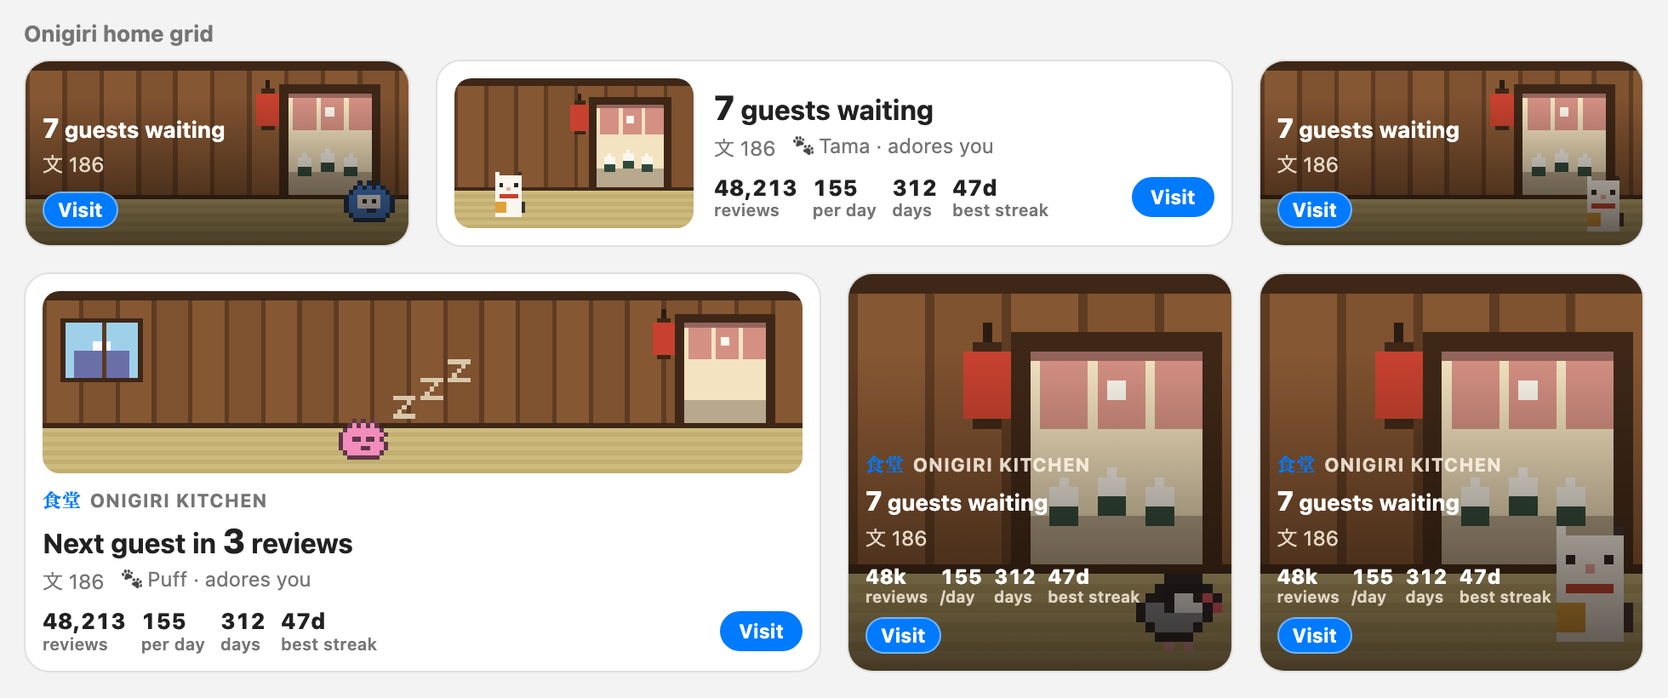
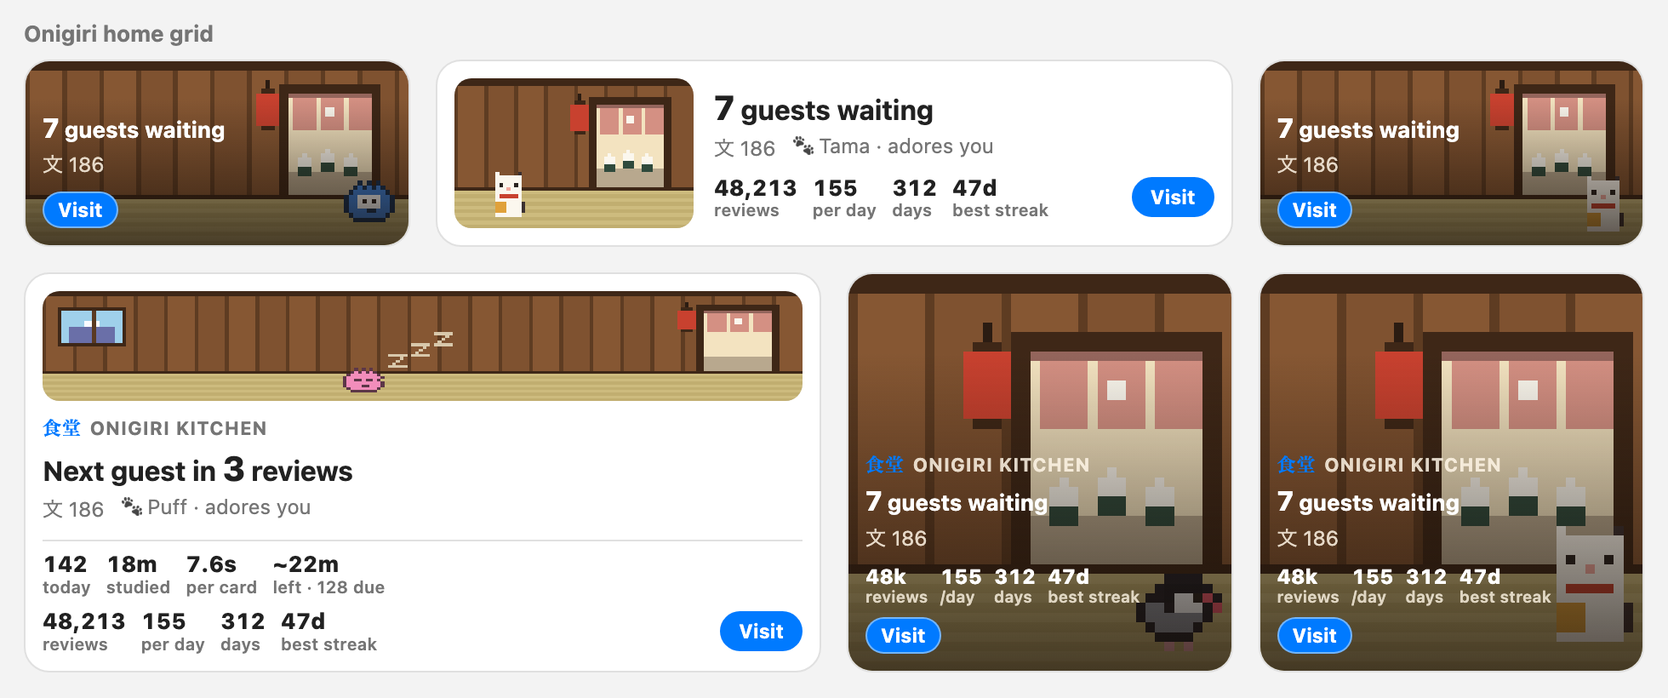
Today and time left: in stats and on big widgets; the panel Xs are back
- study_today(): today's cards, time, pace, retention and new cards, plus
  the cards still due and how long they'll take at your own pace (seconds
  per answer by card type and answers per new card, from the last 30 days).
- Stats: a 今日 Today section (cards, time, pace, time left, finish-around
  time, retention, focus, guests; due cards by type; your pace).
- Widget: big widgets get a today row (cards, time studied, per card, time
  left); every widget's hover shows it.
- The Shop, Pet and Settings panels keep their X after all.

Changed region(s): [[0.0, 0.4268, 0.498, 0.8537]]

diff --git a/dev/widget.html b/dev/widget.html
@@ -25,13 +25,13 @@ h3 { font-size:13px; color:var(--fg-subtle); margin:18px 0 8px; }
 <body><script>if(location.search.includes('night'))document.body.className='nightMode'</script>
 <h3>Onigiri home grid</h3>
 <div class="unified-grid">
-  <div class="external-widget-container" style="grid-area:1/2/span 1/span 2"><div class="okw" role="button" tabindex="0"><script type="application/json" class="okw-data">{"guests": 7, "nextIn": 3, "reviews": 142, "focusDone": 2, "stats": {"total": 48213, "days": 312, "average": 155, "bestStreak": 47}, "mon": 186, "pet": {"species": "cat", "name": "Tama", "tummy": 70, "love": 85, "energy": 70, "stage": 1}, "theme": "#D49083", "timer": {"pomo": {"phase": "idle", "rounds": 1, "cycle": 4}, "sound": false}}</script><div class="okw-in"><canvas class="okw-scene" width="64" height="40"></canvas><div class="okw-info"></div></div></div></div>
-  <div class="external-widget-container" style="grid-area:1/1/span 1/span 1"><div class="okw" role="button" tabindex="0"><script type="application/json" class="okw-data">{"guests": 7, "nextIn": 3, "reviews": 142, "focusDone": 2, "stats": {"total": 48213, "days": 312, "average": 155, "bestStreak": 47}, "mon": 186, "pet": {"species": "puffle", "name": "Pip", "tummy": 70, "love": 85, "energy": 70, "stage": 1}, "puffleColor": "#3d7fd6", "theme": "#D49083", "timer": {"pomo": {"phase": "idle", "rounds": 1, "cycle": 4}, "sound": false}}</script><div class="okw-in"><canvas class="okw-scene" width="64" height="40"></canvas><div class="okw-info"></div></div></div></div>
-  <div class="external-widget-container" style="grid-area:1/4/span 1/span 1"><div class="okw" role="button" tabindex="0"><script type="application/json" class="okw-data">{"guests": 7, "nextIn": 3, "reviews": 142, "focusDone": 2, "stats": {"total": 48213, "days": 312, "average": 155, "bestStreak": 47}, "mon": 186, "pet": {"species": "cat", "name": "Tama", "tummy": 70, "love": 85, "energy": 70, "stage": 1}, "theme": "#D49083", "timer": {"pomo": {"phase": "idle", "rounds": 1, "cycle": 4}, "sound": false}}</script><div class="okw-in"><canvas class="okw-scene" width="64" height="40"></canvas><div class="okw-info"></div></div></div></div>
-  <div class="external-widget-container" style="grid-area:2/1/span 2/span 2" id="w22"><div class="okw" role="button" tabindex="0"><script type="application/json" class="okw-data">{"guests": 0, "nextIn": 3, "reviews": 142, "focusDone": 2, "stats": {"total": 48213, "days": 312, "average": 155, "bestStreak": 47}, "mon": 186, "pet": {"species": "puffle", "name": "Puff", "tummy": 70, "love": 85, "energy": 70, "stage": 1}, "puffleColor": "#f28dbb", "theme": "#D49083", "timer": {"pomo": {"phase": "focus", "endsAt": 0, "remaining": 1101000, "paused": true, "rounds": 1, "cycle": 4}}}</script><div class="okw-in"><canvas class="okw-scene" width="64" height="40"></canvas><div class="okw-info"></div></div></div></div>
-  <div class="external-widget-container" style="grid-area:2/3/span 2/span 1"><div class="okw" role="button" tabindex="0"><script type="application/json" class="okw-data">{"guests": 7, "nextIn": 3, "reviews": 142, "focusDone": 2, "stats": {"total": 48213, "days": 312, "average": 155, "bestStreak": 47}, "mon": 186, "pet": {"species": "bird", "name": "Tama", "tummy": 70, "love": 85, "energy": 70, "stage": 1}, "theme": "#D49083", "timer": {"pomo": {"phase": "idle", "rounds": 1, "cycle": 4}, "sound": false}}</script><div class="okw-in"><canvas class="okw-scene" width="64" height="40"></canvas><div class="okw-info"></div></div></div></div>
-  <div class="external-widget-container" style="grid-area:2/4/span 2/span 1"><div class="okw" role="button" tabindex="0"><script type="application/json" class="okw-data">{"guests": 7, "nextIn": 3, "reviews": 142, "focusDone": 2, "stats": {"total": 48213, "days": 312, "average": 155, "bestStreak": 47}, "mon": 186, "pet": {"species": "cat", "name": "Tama", "tummy": 70, "love": 85, "energy": 70, "stage": 1}, "theme": "#D49083", "timer": {"pomo": {"phase": "idle", "rounds": 1, "cycle": 4}, "sound": false}}</script><div class="okw-in"><canvas class="okw-scene" width="64" height="40"></canvas><div class="okw-info"></div></div></div></div>
+  <div class="external-widget-container" style="grid-area:1/2/span 1/span 2"><div class="okw" role="button" tabindex="0"><script type="application/json" class="okw-data">{"guests": 7, "nextIn": 3, "reviews": 142, "focusDone": 2, "stats": {"total": 48213, "days": 312, "average": 155, "bestStreak": 47}, "studyToday": {"cards": 142, "seconds": 1080, "pace": 7.6, "retention": 89.4, "newCards": 20, "due": {"new": 20, "learn": 12, "review": 96, "total": 128}, "estimateSeconds": 1330, "paces": {"learning": 7.1, "review": 7.1, "relearning": 8.7, "answersPerNew": 2.9}}, "mon": 186, "pet": {"species": "cat", "name": "Tama", "tummy": 70, "love": 85, "energy": 70, "stage": 1}, "theme": "#D49083", "timer": {"pomo": {"phase": "idle", "rounds": 1, "cycle": 4}, "sound": false}}</script><div class="okw-in"><canvas class="okw-scene" width="64" height="40"></canvas><div class="okw-info"></div></div></div></div>
+  <div class="external-widget-container" style="grid-area:1/1/span 1/span 1"><div class="okw" role="button" tabindex="0"><script type="application/json" class="okw-data">{"guests": 7, "nextIn": 3, "reviews": 142, "focusDone": 2, "stats": {"total": 48213, "days": 312, "average": 155, "bestStreak": 47}, "studyToday": {"cards": 142, "seconds": 1080, "pace": 7.6, "retention": 89.4, "newCards": 20, "due": {"new": 20, "learn": 12, "review": 96, "total": 128}, "estimateSeconds": 1330, "paces": {"learning": 7.1, "review": 7.1, "relearning": 8.7, "answersPerNew": 2.9}}, "mon": 186, "pet": {"species": "puffle", "name": "Pip", "tummy": 70, "love": 85, "energy": 70, "stage": 1}, "puffleColor": "#3d7fd6", "theme": "#D49083", "timer": {"pomo": {"phase": "idle", "rounds": 1, "cycle": 4}, "sound": false}}</script><div class="okw-in"><canvas class="okw-scene" width="64" height="40"></canvas><div class="okw-info"></div></div></div></div>
+  <div class="external-widget-container" style="grid-area:1/4/span 1/span 1"><div class="okw" role="button" tabindex="0"><script type="application/json" class="okw-data">{"guests": 7, "nextIn": 3, "reviews": 142, "focusDone": 2, "stats": {"total": 48213, "days": 312, "average": 155, "bestStreak": 47}, "studyToday": {"cards": 142, "seconds": 1080, "pace": 7.6, "retention": 89.4, "newCards": 20, "due": {"new": 20, "learn": 12, "review": 96, "total": 128}, "estimateSeconds": 1330, "paces": {"learning": 7.1, "review": 7.1, "relearning": 8.7, "answersPerNew": 2.9}}, "mon": 186, "pet": {"species": "cat", "name": "Tama", "tummy": 70, "love": 85, "energy": 70, "stage": 1}, "theme": "#D49083", "timer": {"pomo": {"phase": "idle", "rounds": 1, "cycle": 4}, "sound": false}}</script><div class="okw-in"><canvas class="okw-scene" width="64" height="40"></canvas><div class="okw-info"></div></div></div></div>
+  <div class="external-widget-container" style="grid-area:2/1/span 2/span 2" id="w22"><div class="okw" role="button" tabindex="0"><script type="application/json" class="okw-data">{"guests": 0, "nextIn": 3, "reviews": 142, "focusDone": 2, "stats": {"total": 48213, "days": 312, "average": 155, "bestStreak": 47}, "studyToday": {"cards": 142, "seconds": 1080, "pace": 7.6, "retention": 89.4, "newCards": 20, "due": {"new": 20, "learn": 12, "review": 96, "total": 128}, "estimateSeconds": 1330, "paces": {"learning": 7.1, "review": 7.1, "relearning": 8.7, "answersPerNew": 2.9}}, "mon": 186, "pet": {"species": "puffle", "name": "Puff", "tummy": 70, "love": 85, "energy": 70, "stage": 1}, "puffleColor": "#f28dbb", "theme": "#D49083", "timer": {"pomo": {"phase": "focus", "endsAt": 0, "remaining": 1101000, "paused": true, "rounds": 1, "cycle": 4}}}</script><div class="okw-in"><canvas class="okw-scene" width="64" height="40"></canvas><div class="okw-info"></div></div></div></div>
+  <div class="external-widget-container" style="grid-area:2/3/span 2/span 1"><div class="okw" role="button" tabindex="0"><script type="application/json" class="okw-data">{"guests": 7, "nextIn": 3, "reviews": 142, "focusDone": 2, "stats": {"total": 48213, "days": 312, "average": 155, "bestStreak": 47}, "studyToday": {"cards": 142, "seconds": 1080, "pace": 7.6, "retention": 89.4, "newCards": 20, "due": {"new": 20, "learn": 12, "review": 96, "total": 128}, "estimateSeconds": 1330, "paces": {"learning": 7.1, "review": 7.1, "relearning": 8.7, "answersPerNew": 2.9}}, "mon": 186, "pet": {"species": "bird", "name": "Tama", "tummy": 70, "love": 85, "energy": 70, "stage": 1}, "theme": "#D49083", "timer": {"pomo": {"phase": "idle", "rounds": 1, "cycle": 4}, "sound": false}}</script><div class="okw-in"><canvas class="okw-scene" width="64" height="40"></canvas><div class="okw-info"></div></div></div></div>
+  <div class="external-widget-container" style="grid-area:2/4/span 2/span 1"><div class="okw" role="button" tabindex="0"><script type="application/json" class="okw-data">{"guests": 7, "nextIn": 3, "reviews": 142, "focusDone": 2, "stats": {"total": 48213, "days": 312, "average": 155, "bestStreak": 47}, "studyToday": {"cards": 142, "seconds": 1080, "pace": 7.6, "retention": 89.4, "newCards": 20, "due": {"new": 20, "learn": 12, "review": 96, "total": 128}, "estimateSeconds": 1330, "paces": {"learning": 7.1, "review": 7.1, "relearning": 8.7, "answersPerNew": 2.9}}, "mon": 186, "pet": {"species": "cat", "name": "Tama", "tummy": 70, "love": 85, "energy": 70, "stage": 1}, "theme": "#D49083", "timer": {"pomo": {"phase": "idle", "rounds": 1, "cycle": 4}, "sound": false}}</script><div class="okw-in"><canvas class="okw-scene" width="64" height="40"></canvas><div class="okw-info"></div></div></div></div>
 </div>
 <h3>Plain Anki (no Onigiri), under the deck list</h3>
-<div class="plainwrap">[deck list]<div class="okw okw-plain" role="button" tabindex="0"><script type="application/json" class="okw-data">{"guests": 7, "nextIn": 3, "reviews": 142, "focusDone": 2, "stats": {"total": 48213, "days": 312, "average": 155, "bestStreak": 47}, "mon": 186, "pet": {"species": "cat", "name": "Tama", "tummy": 70, "love": 85, "energy": 70, "stage": 1}, "theme": "#D49083", "timer": {"pomo": {"phase": "idle", "rounds": 1, "cycle": 4}, "sound": false}}</script><div class="okw-in"><canvas class="okw-scene" width="64" height="40"></canvas><div class="okw-info"></div></div></div></div>
+<div class="plainwrap">[deck list]<div class="okw okw-plain" role="button" tabindex="0"><script type="application/json" class="okw-data">{"guests": 7, "nextIn": 3, "reviews": 142, "focusDone": 2, "stats": {"total": 48213, "days": 312, "average": 155, "bestStreak": 47}, "studyToday": {"cards": 142, "seconds": 1080, "pace": 7.6, "retention": 89.4, "newCards": 20, "due": {"new": 20, "learn": 12, "review": 96, "total": 128}, "estimateSeconds": 1330, "paces": {"learning": 7.1, "review": 7.1, "relearning": 8.7, "answersPerNew": 2.9}}, "mon": 186, "pet": {"species": "cat", "name": "Tama", "tummy": 70, "love": 85, "energy": 70, "stage": 1}, "theme": "#D49083", "timer": {"pomo": {"phase": "idle", "rounds": 1, "cycle": 4}, "sound": false}}</script><div class="okw-in"><canvas class="okw-scene" width="64" height="40"></canvas><div class="okw-info"></div></div></div></div>
 </body></html>

diff --git a/onigiri_kitchen/web/stats.js b/onigiri_kitchen/web/stats.js
@@ -202,6 +202,43 @@
     el.innerHTML = `<div class="oks-sec-head"><span class="jp">${jp}</span><b>${en}</b>${sub ? `<span class="oks-sec-sub">${sub}</span>` : ''}</div>${html}`;
   }
 
+  // --------------------------------------------------------------- 今日 today
+  // (the same every range: it's about today)
+  function renderToday() {
+    const t = D.studyToday;
+    const sessions = ((D.pomo || {}).sessions || []).filter((s) => s[0] === TODAY);
+    const focusMin = sessions.reduce((a, s) => a + s[3] / 60, 0);
+    const kday = ((D.kitchen || {}).days || []).find((d) => d[0] === TODAY) || [TODAY, 0, 0, 0];
+    if (!t) { section($('oks-today'), '今日', 'Today', '', '<div class="oks-note">Couldn\'t read today\'s reviews.</div>'); return; }
+    const due = t.due || {};
+    const pc = t.paces || {};
+    let html = '<div class="oks-hero">' +
+      hero('Cards today', num(t.cards), `${num(t.newCards)} new`) +
+      hero('Time today', dur(t.seconds / 60), 'as timed by Anki') +
+      hero('Pace', t.pace ? `${t.pace} s` : '–', 'per card today') +
+      hero('Time left', due.total ? `~${dur(t.estimateSeconds / 60)}` : 'All done', due.total ? `${num(due.total)} cards due, at your pace` : 'nothing due right now',
+        'Your cards still due today, times your own average seconds per answer (last 30 days), counting the answers a new card usually takes') +
+      '</div><div class="oks-grid">' +
+      tile('Retention today', pct(t.retention), 'review cards remembered') +
+      tile('Focus today', dur(focusMin), `${num(sessions.length)} session${sessions.length === 1 ? '' : 's'}`) +
+      tile('Guests today', num(kday[1]), `${num(kday[2])} 文 earned`) +
+      tile('Finish around', due.total ? new Date(Date.now() + t.estimateSeconds * 1000).toLocaleTimeString(undefined, { hour: 'numeric', minute: '2-digit' }) : '–', due.total ? 'if you start now' : '') +
+      '</div><div class="oks-charts">' +
+      card('Due today', `${num(due.total)} cards · about ${dur(t.estimateSeconds / 60)}`, stack([
+        { slot: 1, label: 'New', value: due.new || 0, note: `About ${pc.answersPerNew || '–'} answers each, ${pc.learning || '–'} s an answer` },
+        { slot: 2, label: 'Learning', value: due.learn || 0, note: `${pc.relearning || '–'} s an answer` },
+        { slot: 3, label: 'Review', value: due.review || 0, note: `${pc.review || '–'} s an answer` },
+      ])) +
+      card('Your pace', 'last 30 days, as timed by Anki', rows([
+        { label: 'Learning', value: pc.learning || 0, shown: `${pc.learning || '–'} s`, tip: 'Seconds per answer for new cards in their learning steps' },
+        { label: 'Review', value: pc.review || 0, shown: `${pc.review || '–'} s`, tip: 'Seconds per answer for review cards' },
+        { label: 'Relearning', value: pc.relearning || 0, shown: `${pc.relearning || '–'} s`, tip: 'Seconds per answer for cards you forgot' },
+        { label: 'Answers per new card', value: 0, shown: `${pc.answersPerNew || '–'}`, tip: 'How many answers a new card takes before it leaves its learning steps' },
+      ])) +
+      '</div>';
+    section($('oks-today'), '今日', 'Today', fmtDay(TODAY, 'year'), html);
+  }
+
   // --------------------------------------------------------- 集中 pomodoro
   function renderPomo() {
     const p = D.pomo || {};
@@ -469,6 +506,7 @@
     applyTheme();
     $('oks-sub').textContent = `Everything Onigiri Kitchen keeps count of · ${fmtDay(TODAY, 'year')}`;
     renderRange();
+    renderToday();
     renderPomo();
     renderReviews();
     renderKitchen();

diff --git a/onigiri_kitchen/web/widget.js b/onigiri_kitchen/web/widget.js
@@ -213,10 +213,25 @@
         stat(num(st.days), short(st.days), st.days === 1 ? 'day' : 'days', st.days === 1 ? 'day' : 'days', 'Days studied (with at least one review)') +
         stat(`${st.bestStreak || 0}d`, `${st.bestStreak || 0}d`, 'best streak', 'best streak', 'Your longest-ever streak: the most days in a row you have reviewed')
       : '';
+    // today: cards, time, pace, and how long what's due will take at your pace
+    const t = d.studyToday;
+    const mins = (secs) => { const m = Math.round(secs / 60); return m >= 60 ? `${Math.floor(m / 60)}h${m % 60 ? ` ${m % 60}m` : ''}` : `${m}m`; };
+    const todayTip = t
+      ? `Today: ${t.cards} cards in ${mins(t.seconds)}${t.pace ? `, ${t.pace} s a card` : ''}${t.retention != null ? `, ${t.retention}% retention` : ''}.` +
+        ` Due: ${t.due.total} cards (${t.due.new} new, ${t.due.learn} learning, ${t.due.review} review), about ${mins(t.estimateSeconds)} at your pace.`
+      : '';
+    const today = t
+      ? stat(num(t.cards), short(t.cards), 'today', 'today', `${t.cards} cards studied today`) +
+        stat(mins(t.seconds), mins(t.seconds), 'studied', 'studied', 'Time spent reviewing today, as timed by Anki') +
+        stat(t.pace ? `${t.pace}s` : '–', t.pace ? `${t.pace}s` : '–', 'per card', '/card', 'Your pace today: seconds per card') +
+        stat(t.due.total ? `~${mins(t.estimateSeconds)}` : 'done', t.due.total ? `~${mins(t.estimateSeconds)}` : 'done', t.due.total ? `left · ${num(t.due.total)} due` : 'nothing due', 'left', esc(todayTip))
+      : '';
+    el.title = t ? `Open Onigiri Kitchen\n${todayTip}` : 'Open Onigiri Kitchen';
     info.innerHTML =
       `<div class="okw-top"><span class="okw-jp">食堂</span>Onigiri Kitchen</div>` +
       `<div class="okw-big">${big}</div>` +
       `<div class="okw-sub"><span title="${d.mon} mon (文): tips from your guests">文 ${d.mon}</span>${p.species ? `<span>🐾 ${esc(p.name || 'Tama')} · ${mood(p)}</span>` : ''}</div>` +
+      (today ? `<div class="okw-row okw-row-today"><span class="okw-stats">${today}</span></div>` : '') +
       `<div class="okw-row">` +
       `<span class="okw-stats">${stats}</span>` +
       '' +

diff --git a/onigiri_kitchen/web/kitchen.html b/onigiri_kitchen/web/kitchen.html
@@ -58,6 +58,7 @@
     <div class="ok-panel-head">
       <h2><span class="jp">店</span> Shop</h2>
       <p>Spend the mon your guests leave on pets and decor. Some unlock as your restaurant levels up (the Lv on the sign).</p>
+      <button class="ok-close" data-close="ok-decor" title="Close">&times;</button>
     </div>
     <div class="ok-decor-grid" id="ok-decor-grid"></div>
   </section>
@@ -74,6 +75,7 @@
         <div class="ok-pet-grow"><i id="ok-pet-grow"></i></div>
         <div class="ok-pet-growtext" id="ok-pet-growtext"></div>
       </div>
+      <button class="ok-close" data-close="ok-pet" title="Close">&times;</button>
     </div>
     <nav class="ok-tabs" id="ok-pet-tabs" role="tablist">
       <button data-tab="care" class="on" role="tab"><b class="jp">世話</b>Care</button>
@@ -108,6 +110,7 @@
     <div class="ok-panel-head">
       <h2><span class="jp">タイマー</span> Timer</h2>
       <p>Guests keep coming while you study. Breaks are when you get to enjoy them.</p>
+      <button class="ok-close" data-close="ok-settings" title="Close">&times;</button>
     </div>
     <form class="ok-form" id="ok-form">
       <label>Focus <span><input type="number" name="focus_minutes" min="1" max="180" step="1"> min</span></label>

diff --git a/onigiri_kitchen/web/stats.html b/onigiri_kitchen/web/stats.html
@@ -5,12 +5,14 @@
       <div class="oks-sub" id="oks-sub"></div>
     </div>
     <nav class="oks-nav">
+      <a href="#oks-today"><span class="jp">今日</span>Today</a>
       <a href="#oks-pomo"><span class="jp">集中</span>Pomodoro</a>
       <a href="#oks-rev"><span class="jp">復習</span>Reviews</a>
       <a href="#oks-kitchen"><span class="jp">食堂</span>Kitchen</a>
     </nav>
   </header>
   <div class="oks-range" id="oks-range" role="group" aria-label="Time range"></div>
+  <section class="oks-sec" id="oks-today"></section>
   <section class="oks-sec" id="oks-pomo"></section>
   <section class="oks-sec" id="oks-rev"></section>
   <section class="oks-sec" id="oks-kitchen"></section>

diff --git a/onigiri_kitchen/web/widget.css b/onigiri_kitchen/web/widget.css
@@ -147,3 +147,10 @@
 @container (max-width: 300px) and (max-height: 150px) {
   .okw-row .okw-btn { display: inline-block; }
 }
+
+/* today's row (cards, time, pace, time left): only on big widgets, two rows
+   tall and two columns wide; the others show it in their hover title */
+.okw-row-today { display: none; }
+@container (min-height: 170px) and (min-width: 300px) {
+  .okw-row-today { display: flex; margin-top: 6px; padding-top: 6px; border-top: 1px solid var(--border, #e0d4bf); }
+}

diff --git a/dev/stats_mock.js b/dev/stats_mock.js
@@ -56,6 +56,7 @@
   };
   window.OKS = {
     today: TODAY,
+    studyToday: { cards: 142, seconds: 1080, pace: 7.6, retention: 89.4, newCards: 20, due: { new: 20, learn: 12, review: 96, total: 128 }, estimateSeconds: 1330, paces: { learning: 7.1, review: 7.1, relearning: 8.7, answersPerNew: 2.9 } },
     version: '1.8.0',
     pomo: { since: back(90), sessions, breaks, idlePauses: 27, resets: 4 },
     reviews: {

diff --git a/onigiri_kitchen/main.py b/onigiri_kitchen/main.py
@@ -5,7 +5,7 @@ from __future__ import annotations
 import datetime
 import json
 import os
-from typing import Any, Dict, Optional
+from typing import Any, Dict, Optional, Tuple
 
 from aqt import gui_hooks, mw
 from aqt.deckbrowser import DeckBrowser
@@ -807,6 +807,7 @@ def stats_payload() -> Dict[str, Any]:
         "pomo": _pomo_stats(today),
         "reviews": _review_stats(today),
         "kitchen": _kitchen_stats(),
+        "studyToday": study_today(),
         "themeMode": conf().get("theme_mode", "anki"),
         "version": VERSION,
     }
@@ -880,6 +881,66 @@ def restaurant_progress() -> Dict[str, Any]:
     return progress
 
 
+_today_cache: Dict[str, Any] = {"key": None, "value": None}
+
+
+def study_today() -> Optional[Dict[str, Any]]:
+    """Today's studying (cards, time, pace, retention) and what's still due,
+    with an estimate of how long it will take at your own pace: seconds per
+    answer by card type and answers per new card, from the last 30 days (all
+    time if that's empty)."""
+    try:
+        cutoff = int(mw.col.sched.day_cutoff)
+        db = mw.col.db
+        start_ms = (cutoff - 86400) * 1000
+        today_n = int(db.scalar("select count() from revlog where type in (0, 1, 2, 3) and id > ?", start_ms) or 0)
+    except Exception:
+        return None
+    key = (cutoff, today_n, mw.col.mod if hasattr(mw.col, "mod") else 0)
+    if _today_cache["key"] == key:
+        return _today_cache["value"]
+    try:
+        ms = int(db.scalar("select coalesce(sum(time), 0) from revlog where type in (0, 1, 2, 3) and id > ?", start_ms) or 0)
+        rev = db.first("select count(), sum(case when ease = 1 then 1 else 0 end) from revlog where type = 1 and id > ?", start_ms) or (0, 0)
+        new_today = int(db.scalar("select count(distinct cid) from revlog where type = 0 and id > ?", start_ms) or 0)
+
+        def paces(since: int) -> Dict[int, Tuple[int, int]]:
+            return {int(t): (int(c), int(m or 0)) for t, c, m in db.all(
+                "select type, count(), sum(time) from revlog where type in (0, 1, 2) and id > ? group by type", since)}
+
+        month = paces((cutoff - 30 * 86400) * 1000)
+        if not month:
+            month = paces(0)
+        new_seen = db.scalar("select count(distinct cid) from revlog where type = 0 and id > ?", (cutoff - 30 * 86400) * 1000) or 0
+
+        def per(t: int, default: float) -> float:
+            c, m = month.get(t, (0, 0))
+            return m / 1000 / c if c else default
+
+        learn_s = per(0, 8.0)
+        review_s = per(1, 8.0)
+        relearn_s = per(2, learn_s)
+        answers_per_new = (month.get(0, (0, 0))[0] / new_seen) if new_seen else 2.5
+        tree = mw.col.sched.deck_due_tree()
+        due_new, due_learn, due_review = int(tree.new_count), int(tree.learn_count), int(tree.review_count)
+    except Exception as e:
+        print(f"Onigiri Kitchen: couldn't estimate today's time: {e}")
+        return None
+    estimate = due_new * answers_per_new * learn_s + due_learn * relearn_s + due_review * review_s
+    value = {
+        "cards": today_n,
+        "seconds": round(ms / 1000),
+        "pace": round(ms / 1000 / today_n, 1) if today_n else None,
+        "retention": round(100 * (1 - (rev[1] or 0) / rev[0]), 1) if rev[0] else None,
+        "newCards": new_today,
+        "due": {"new": due_new, "learn": due_learn, "review": due_review, "total": due_new + due_learn + due_review},
+        "estimateSeconds": round(estimate),
+        "paces": {"learning": round(learn_s, 1), "review": round(review_s, 1), "relearning": round(relearn_s, 1), "answersPerNew": round(answers_per_new, 1)},
+    }
+    _today_cache.update(key=key, value=value)
+    return value
+
+
 def widget_payload() -> Dict[str, Any]:
     _sync_with_log()
     progress = onigiri_link.read_progress()
@@ -892,6 +953,7 @@ def widget_payload() -> Dict[str, Any]:
         "reviews": int(state.data["today"].get("reviews", 0)),
         "focusDone": int(state.data["today"].get("focus_done", 0)),
         "stats": lifetime_stats(int(state.data["today"].get("reviews", 0))),
+        "studyToday": study_today(),
         "mon": int(state.data.get("mon", 0)),
         "pet": state.pet.snapshot(),
         "puffleColor": (PUFFLE_COLORS_BY_ID.get(state.data.get("puffle_color") or "blue") or PUFFLE_COLORS[0])["hex"],

diff --git a/ANKIWEB.md b/ANKIWEB.md
@@ -37,8 +37,8 @@ You study, guests arrive. You take a break, you get to enjoy them.
 - **A real-time clock:** a wooden wall clock, or tap it for a flip clock.
 - **Candles on the tables:** click one to light or snuff it. Lanterns and candles light themselves at dusk and go out at dawn.
 - **Confetti and sakura petals** when you finish a deck: 紙吹雪 bursts in from the sides and petals drift down over the "Congratulations" screen, with a little fanfare.
-- **統計 Stats, lots of them:** ⚙ → Open stats, for the last 7 days, 30 days, year or all time. Pomodoro focus time, streaks, completion rate, best days and time-of-day patterns; your Anki reviews with a year heatmap, retention, answer buttons and your collection's new, young and mature cards; and the kitchen's guests, mon and pet.
-- **Home-screen widget** with your all-time reviews, daily average, days studied and longest streak: add it to your Onigiri main menu from Onigiri's layout editor (or see it under your decks without Onigiri).
+- **統計 Stats, lots of them:** ⚙ → Open stats, for the last 7 days, 30 days, year or all time. Today's cards, time, pace and how long what's due will take at your pace; pomodoro focus time, streaks, completion rate, best days and time-of-day patterns; your Anki reviews with a year heatmap, retention, answer buttons and your collection's new, young and mature cards; and the kitchen's guests, mon and pet.
+- **Home-screen widget** with your all-time reviews, daily average, days studied and longest streak (big widgets add today's cards, time, pace and time left): add it to your Onigiri main menu from Onigiri's layout editor (or see it under your decks without Onigiri).
 - **A guided tour** the first time you open it, and a **目安箱 suggestion box** for ideas and bug reports.
 - **Matches your Onigiri theme:** your colours, font and dark mode, or light by day and dark at night by your clock.
 

diff --git a/README.md b/README.md
@@ -68,13 +68,15 @@ built as a companion to the [Onigiri](https://ankiweb.net/shared/info/1011095603
 - **紙吹雪 confetti and sakura petals** when you finish a deck: confetti bursts in from the sides and petals drift
   down from the top of the "Congratulations" screen, with a little fanfare.
 - **統計 Stats.** ⚙ → Open stats opens a window full of numbers and charts, for the last 7 days, 30 days, year or
-  all time. **Pomodoro:** focus time, streaks,
+  all time. **Today:** cards, time, pace, retention, and how long your due cards will take at your own
+  pace. **Pomodoro:** focus time, streaks,
   completion rate, cards per session, best days, breaks and festival nights, time of day and weekday patterns, the
   last 30 days. **Reviews** (from Anki's history): a year heatmap, retention, answer buttons, time per card, your
   collection's new, young and mature cards. **Kitchen:** guests by type and deck, mon earned and spent, your pet
   and collection. Pomodoro and kitchen numbers are recorded from 1.8.0 on.
 - **Home-screen widget.** A small live pixel scene with guests waiting, mon, your pet's mood and all-time stats
-  (total reviews, daily average, days studied and longest streak), plus a Visit button. With Onigiri, add it from Onigiri's layout editor. Without Onigiri, it shows under
+  (total reviews, daily average, days studied and longest streak), plus a Visit button. Big widgets (two by two)
+  add today's cards, time, pace and the time left on what's due. With Onigiri, add it from Onigiri's layout editor. Without Onigiri, it shows under
   your decks on Anki's main screen (you can turn it off in the add-on config).
 - **A guided tour** the first time you open it, which you can replay from ⚙.
 - **目安箱 suggestion box** on the wall (and in ⚙) for feature ideas and bug reports.
